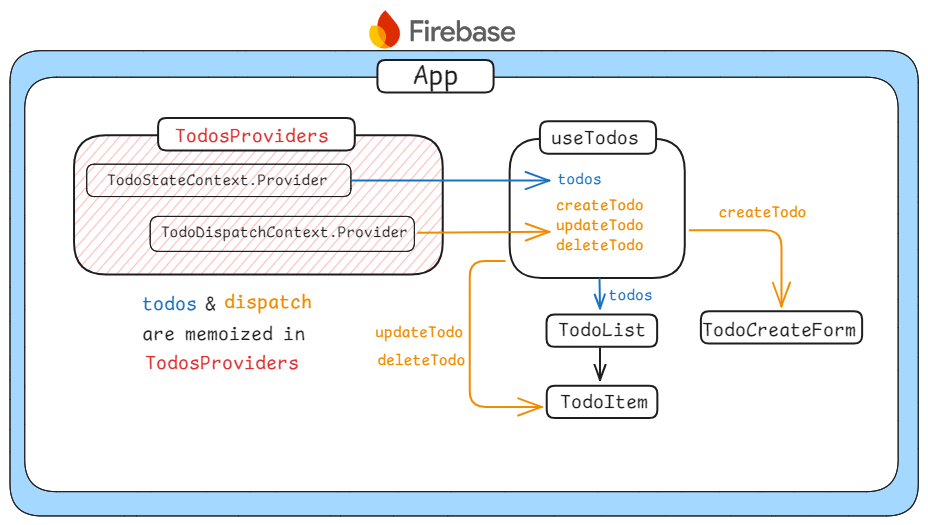
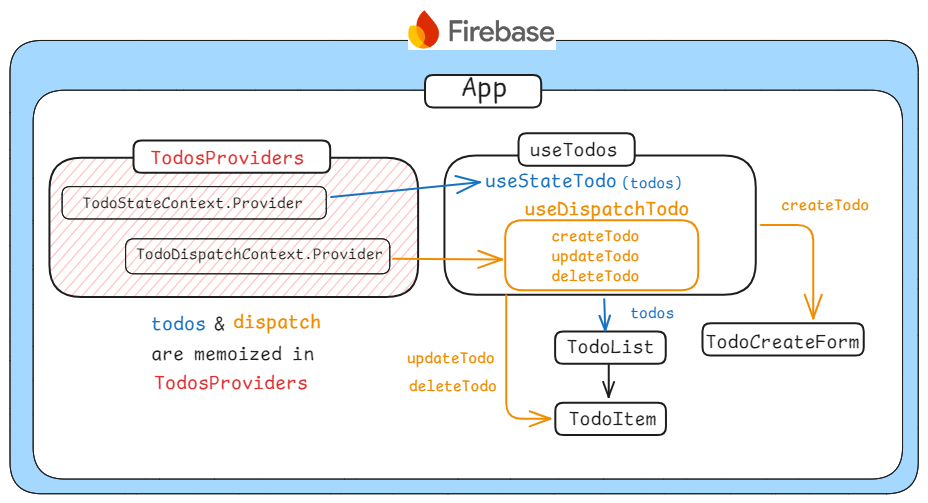
Edit README.md

diff --git a/README.md b/README.md
@@ -8,7 +8,7 @@
 
 - Todo 생성 및 표시: 사용자는 날짜를 지정해 새로운 할 일을 추가할 수 있으며, 기본값은 오늘 날짜로 설정됩니다. 추가된 할 일은 목록 형태로 표시됩니다.
 - Todo 수정:
-  - 완료 표시: 체크박스를 클릭하여 할 일 완료 여부를 표시합니다.
+  - 완료 표시: 체크박스를 클릭하여 할 일 완료 여부를 표시합니다. 완료된 상태는 체크와 취소선으로 표현됩니다.
   - 내용 수정: 수정 버튼을 클릭하여 할 일의 내용을 변경할 수 있습니다.
 - Todo 삭제: 더 이상 필요 없는 할 일을 목록에서 삭제합니다.
 
@@ -43,6 +43,17 @@ $ npm run preview
 
 ![alt text](image.png)
 
-TodoProviders에서 Context를 두 개로 분리하는 것에 가장 신경을 썼습니다. 과제를 진행하며 리스트 컴포넌트를 만들었을 때, de 2개뿐이었지만 props drilling이 발생했습니다. 이를 해결하기 위해 전역 상태로 상태 관리를 하려고 했습니다. 상태 관리가 복잡하지 않다고 판단했기 때문에, Zustand나 Redux Toolkit 같은 외부 라이브러리를 사용하지 않고 Context API로 전역 상태를 관리하기로 했습니다.
+### ContextAPI와 useReducer를 활용한 전역상태 관리 및 최적화
 
-처음에는 TodosProvider라는 단일 Context로 todos, createTodo, updateTodo, deleteTodo 등을 관리했지만, 이전에 적용한 컴포넌트 최적화(memo 적용 등)가 제대로 작동하지 않는 문제가 발생했습니다. 이를 해결하기 위해, 변경 가능한 값인 todos는 TodoStateContext로, 변하지 않는 함수인 createTodo, updateTodo, deleteTodo는 TodoDispatchContext로 분리하여 Context를 관리했습니다.
+본 과제에서 todos라는 전역 상태를 관리하기 위해 useReducer와 ContextAPI를 활용했습니다.
+
+과제를 처음 시작할 때는 useState만으로 작업을 진행했으나, 상태를 컴포넌트 바깥에서 사용해야 하는 상황이 생기면서 문제가 발생했습니다. 또한, 리스트 컴포넌트를 만들면서 props drilling이 발생하는 것이 맞물려서 useState만으로 상태 로직을 관리하는 데 어려움이 있었습니다.
+
+이 문제를 해결하기 위해 useReducer와 ContextAPI를 선택했습니다. useReducer를 사용하면 현재 상태와 액션을 인자로 받아 새로운 상태를 반환하여 상태 변화의 일관성을 보장합니다. 또한, 모든 상태 변화가 명시적인 액션을 통해 이루어져서 상태 변화의 의도를 명확히 표현할 수 있기에 복잡한 상태 로직을 관리하는 데 적합하다 판단했습니다.
+ContextAPI는 useReducer 상태를 컴포넌트 트리 전체에 효율적으로 전달할 수 있게 해줍니다.ContextAPI를 사용함으로써, 중간 컴포넌트들을 거치지 않고도 필요한 컴포넌트에 직접 상태와 dispatch 함수를 전달할 수 있습니다. 그래서 Props Drilling 문제를 효과적으로 해결하며, 컴포넌트 구조를 더 유연하게 만들어줍니다.
+
+useReducer와 ContextAPI를 사용하여 로직 문제와 props drilling을 해결했지만, Provider의 value가 변경될 때마다 리렌더링 되는 문제가 발생했습니다.
+useReducer에서 반환된 todos 상태와 이를 조작하는 dispatch 함수를 하나의 Context.Provider의 value로 묶어 전달했습니다. 그러나 이 경우 불필요한 리렌더링이 발생했습니다. Context API는 Provider의 value가 변경될 때마다 해당 Context를 사용하는 모든 컴포넌트를 리렌더링하기 때문에, todos 상태가 변경될 때마다 dispatch 함수만 사용하는 컴포넌트들도 리렌더링되는 문제가 발생했습니다.
+
+이를 해결하기 위해, TodosProvider를 변경되는 값인 todos는 TodoStateContext로, 변하지 않는 함수인 dispatch(createTodo, updateTodo, deleteTodo)는 TodoDispatchContext로 분리하여 관리했습니다. 이렇게 함으로써 todos 상태의 변경이 dispatch 함수만을 사용하는 컴포넌트의 리렌더링을 유발하지 않도록 했습니다. 또한, 각각의 Context에 대해 useMemo를 사용하여 메모이제이션을 적용함으로써 불필요한 재생성을 방지했습니다.
+이를 통해 상태 변경의 불필요한 영향을 최소화하고, 컴포넌트의 리렌더링이 필요한 경우에만 발생하도록 제어할 수 있었습니다.
